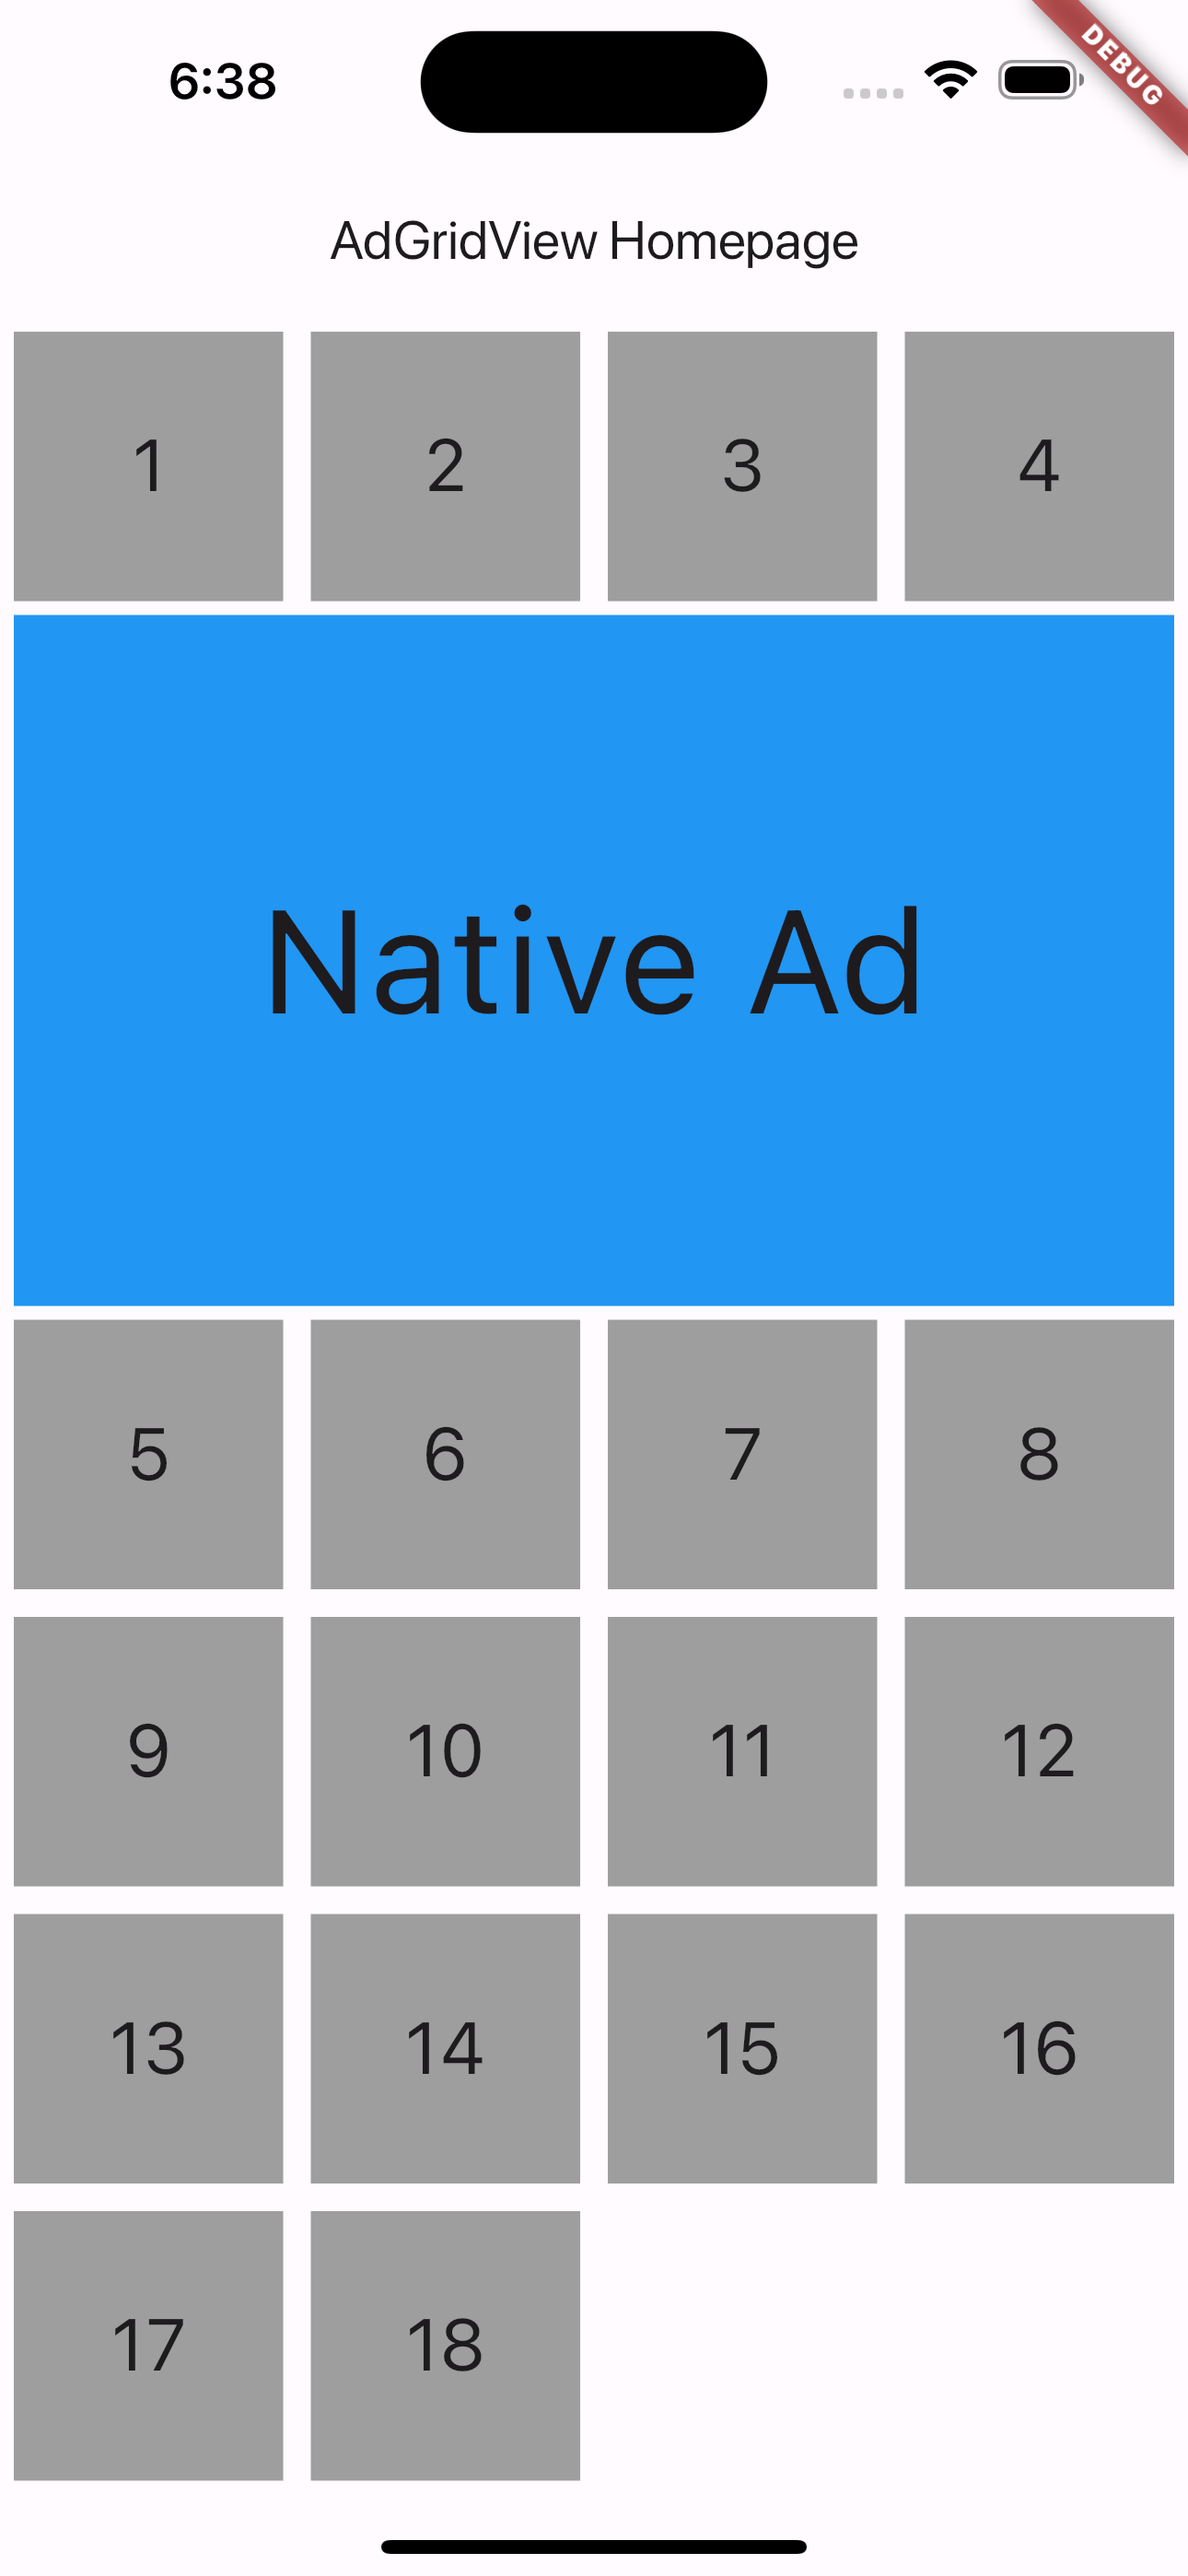
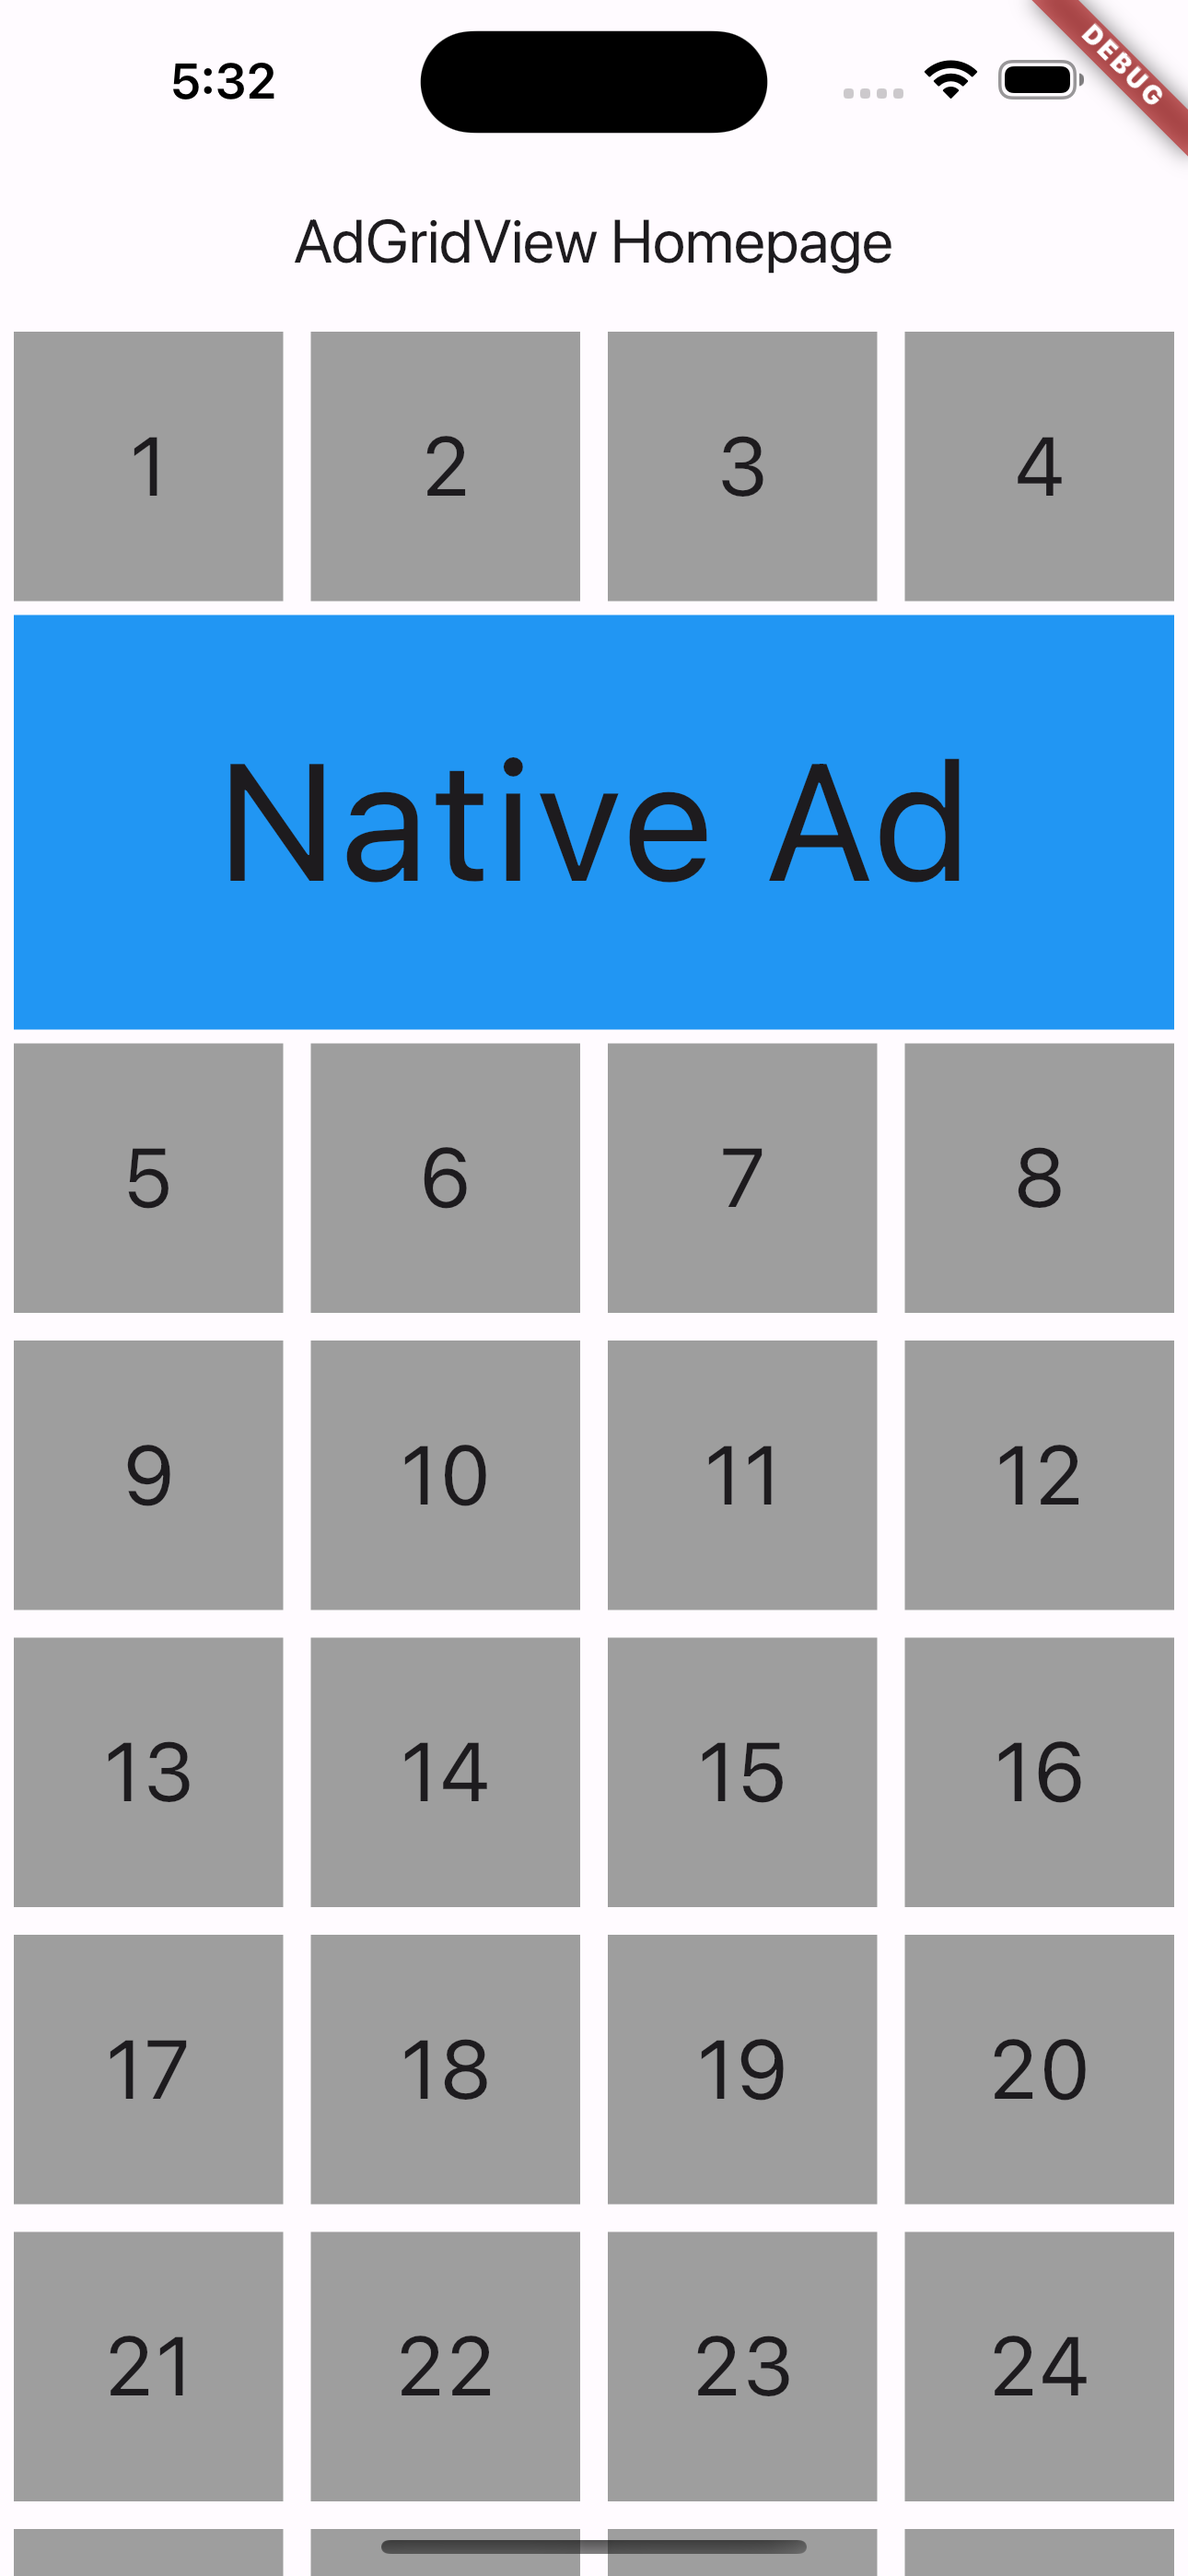
commit test 1

diff --git a/lib/ad_gridview.dart b/lib/ad_gridview.dart
@@ -3,12 +3,38 @@ library ad_gridview;
 import 'package:flutter/material.dart';
 import 'package:flutter_staggered_grid_view/flutter_staggered_grid_view.dart';
 
-enum AdGridViewType { once, repeated }
+/// A widget that displays a grid view with advertisements at specific intervals.
+///
+/// The [AdGridView] widget is designed to display a grid view of items with advertisements inserted
+/// at regular intervals or custom positions. It supports three types of grid layouts: [AdGridViewType.once],
+/// [AdGridViewType.repeated], and [AdGridViewType.custom].
+enum AdGridViewType { once, repeated, custom }
 
+///
+/// The [padding], [physics], [controller], [customAdIndex], [itemMainAspectRatio] parameters
+/// allow further customization of the grid view.
 class AdGridView extends StatelessWidget {
+  /// Creates a [AdGridView] widget.
+  ///
+  /// The [crossAxisCount] parameter specifies the number of items in each row.
+  ///
+  /// The [itemCount] parameter specifies the total number of items in the grid.
+  ///
+  /// The [adIndex] parameter specifies the position where advertisements should be inserted.
+  ///
+  /// The [adWidget] parameter is the widget to be displayed as an advertisement.
+  ///
+  /// The [itemWidget] parameter is a callback function that builds the widgets for grid items.
+  ///
+  /// The [adGridViewType] parameter specifies the type of grid layout to use:
+  ///   - [AdGridViewType.once] adds a single advertisement at the specified index.
+  ///   - [AdGridViewType.repeated] adds advertisements at regular intervals.
+  ///   - [AdGridViewType.custom] allows customizing the positions of advertisements.
   const AdGridView({
     this.padding,
     this.physics,
+    this.controller,
+    this.customAdIndex = const [],
     this.itemMainAspectRatio = 1,
     required this.crossAxisCount,
     required this.itemCount,
@@ -16,9 +42,11 @@ class AdGridView extends StatelessWidget {
     required this.adWidget,
     required this.itemWidget,
     this.adGridViewType = AdGridViewType.once,
-    super.key,
-  });
+    Key? key,
+  }) : super(key: key);
 
+  final List customAdIndex;
+  final ScrollController? controller;
   final AdGridViewType adGridViewType;
   final EdgeInsetsGeometry? padding;
   final ScrollPhysics? physics;
@@ -39,20 +67,40 @@ class AdGridView extends StatelessWidget {
       _itemCount = itemCount + 1;
     }
 
-    /// for Repeated
     List indexList = [];
-    int j = 0;
-    for (int i = 0; i < itemCount; i++) {
-      j++;
-      indexList.add(i);
-      if (j == adIndex * crossAxisCount) {
-        indexList.add("ad");
-        j = 0;
+    if (AdGridViewType.repeated == adGridViewType) {
+      /// for Repeated
+      int j = 0;
+      for (int i = 0; i < itemCount; i++) {
+        j++;
+        indexList.add(i);
+        if (j == adIndex * crossAxisCount) {
+          indexList.add("ad");
+          j = 0;
+        }
+      }
+    } else if (AdGridViewType.custom == adGridViewType) {
+      /// for Custom
+      if (customAdIndex.isEmpty) {
+        throw Exception('You are using AdGridViewType.custom so provide a List<index> in customAdIndex parameter');
+      }
+      List _customAdIndex = customAdIndex;
+      int j = 0;
+      for (int i = 0; i < itemCount; i++) {
+        if (i % crossAxisCount == 0) {
+          j = i ~/ crossAxisCount;
+          if (_customAdIndex.contains(j)) {
+            _customAdIndex.remove(j);
+            indexList.add("ad");
+          }
+        }
+        indexList.add(i);
       }
     }
 
     return AdGridViewType.once == adGridViewType
         ? SingleChildScrollView(
+            controller: controller,
             physics: physics,
             padding: padding,
             child: StaggeredGrid.count(
@@ -61,22 +109,18 @@ class AdGridView extends StatelessWidget {
                 _itemCount,
                 (index) {
                   return index == (crossAxisCount * adIndex)
-                      ? StaggeredGridTile.fit(
-                          crossAxisCellCount: crossAxisCount, child: adWidget)
+                      ? StaggeredGridTile.fit(crossAxisCellCount: crossAxisCount, child: adWidget)
                       : StaggeredGridTile.count(
                           crossAxisCellCount: 1,
                           mainAxisCellCount: itemMainAspectRatio! * 1,
-                          child: itemWidget(
-                              context,
-                              index < (crossAxisCount * adIndex)
-                                  ? index
-                                  : (index - 1)),
+                          child: itemWidget(context, index < (crossAxisCount * adIndex) ? index : (index - 1)),
                         );
                 },
               ),
             ),
           )
         : SingleChildScrollView(
+            controller: controller,
             physics: physics,
             padding: padding,
             child: StaggeredGrid.count(
@@ -85,8 +129,7 @@ class AdGridView extends StatelessWidget {
                 indexList.length,
                 (index) {
                   return indexList[index] == "ad"
-                      ? StaggeredGridTile.fit(
-                          crossAxisCellCount: crossAxisCount, child: adWidget)
+                      ? StaggeredGridTile.fit(crossAxisCellCount: crossAxisCount, child: adWidget)
                       : StaggeredGridTile.count(
                           crossAxisCellCount: 1,
                           mainAxisCellCount: itemMainAspectRatio! * 1,

diff --git a/example/lib/main.dart b/example/lib/main.dart
@@ -29,7 +29,38 @@ class Homepage extends StatefulWidget {
 }
 
 class _HomepageState extends State<Homepage> {
-  List list = [1, 2, 3, 4, 5, 6, 7, 8, 9, 10, 11, 12, 13, 14, 15, 16, 17, 18];
+  List list = [
+    1,
+    2,
+    3,
+    4,
+    5,
+    6,
+    7,
+    8,
+    9,
+    10,
+    11,
+    12,
+    13,
+    14,
+    15,
+    16,
+    17,
+    18,
+    19,
+    20,
+    21,
+    22,
+    23,
+    24,
+    25,
+    26,
+    27,
+    28,
+    29,
+    30
+  ];
 
   @override
   Widget build(BuildContext context) {
@@ -38,11 +69,10 @@ class _HomepageState extends State<Homepage> {
       body: AdGridView(
         crossAxisCount: 4,
         itemCount: list.length,
-        adIndex: 1,
-        adGridViewType: AdGridViewType.once,
+        adIndex: 2,
         itemMainAspectRatio: 1 / 1,
         adWidget: Container(
-          height: 250,
+          height: 150,
           margin: const EdgeInsets.symmetric(horizontal: 5),
           color: Colors.blue,
           child: const Center(

diff --git a/CHANGELOG.md b/CHANGELOG.md
@@ -13,3 +13,8 @@
 ## 0.0.4
 
 * Added AdGridView Types 
+
+## 0.0.5
+
+* Added AdGridView 3rd Type AdGridViewType.custom
+* Added ScrollController
